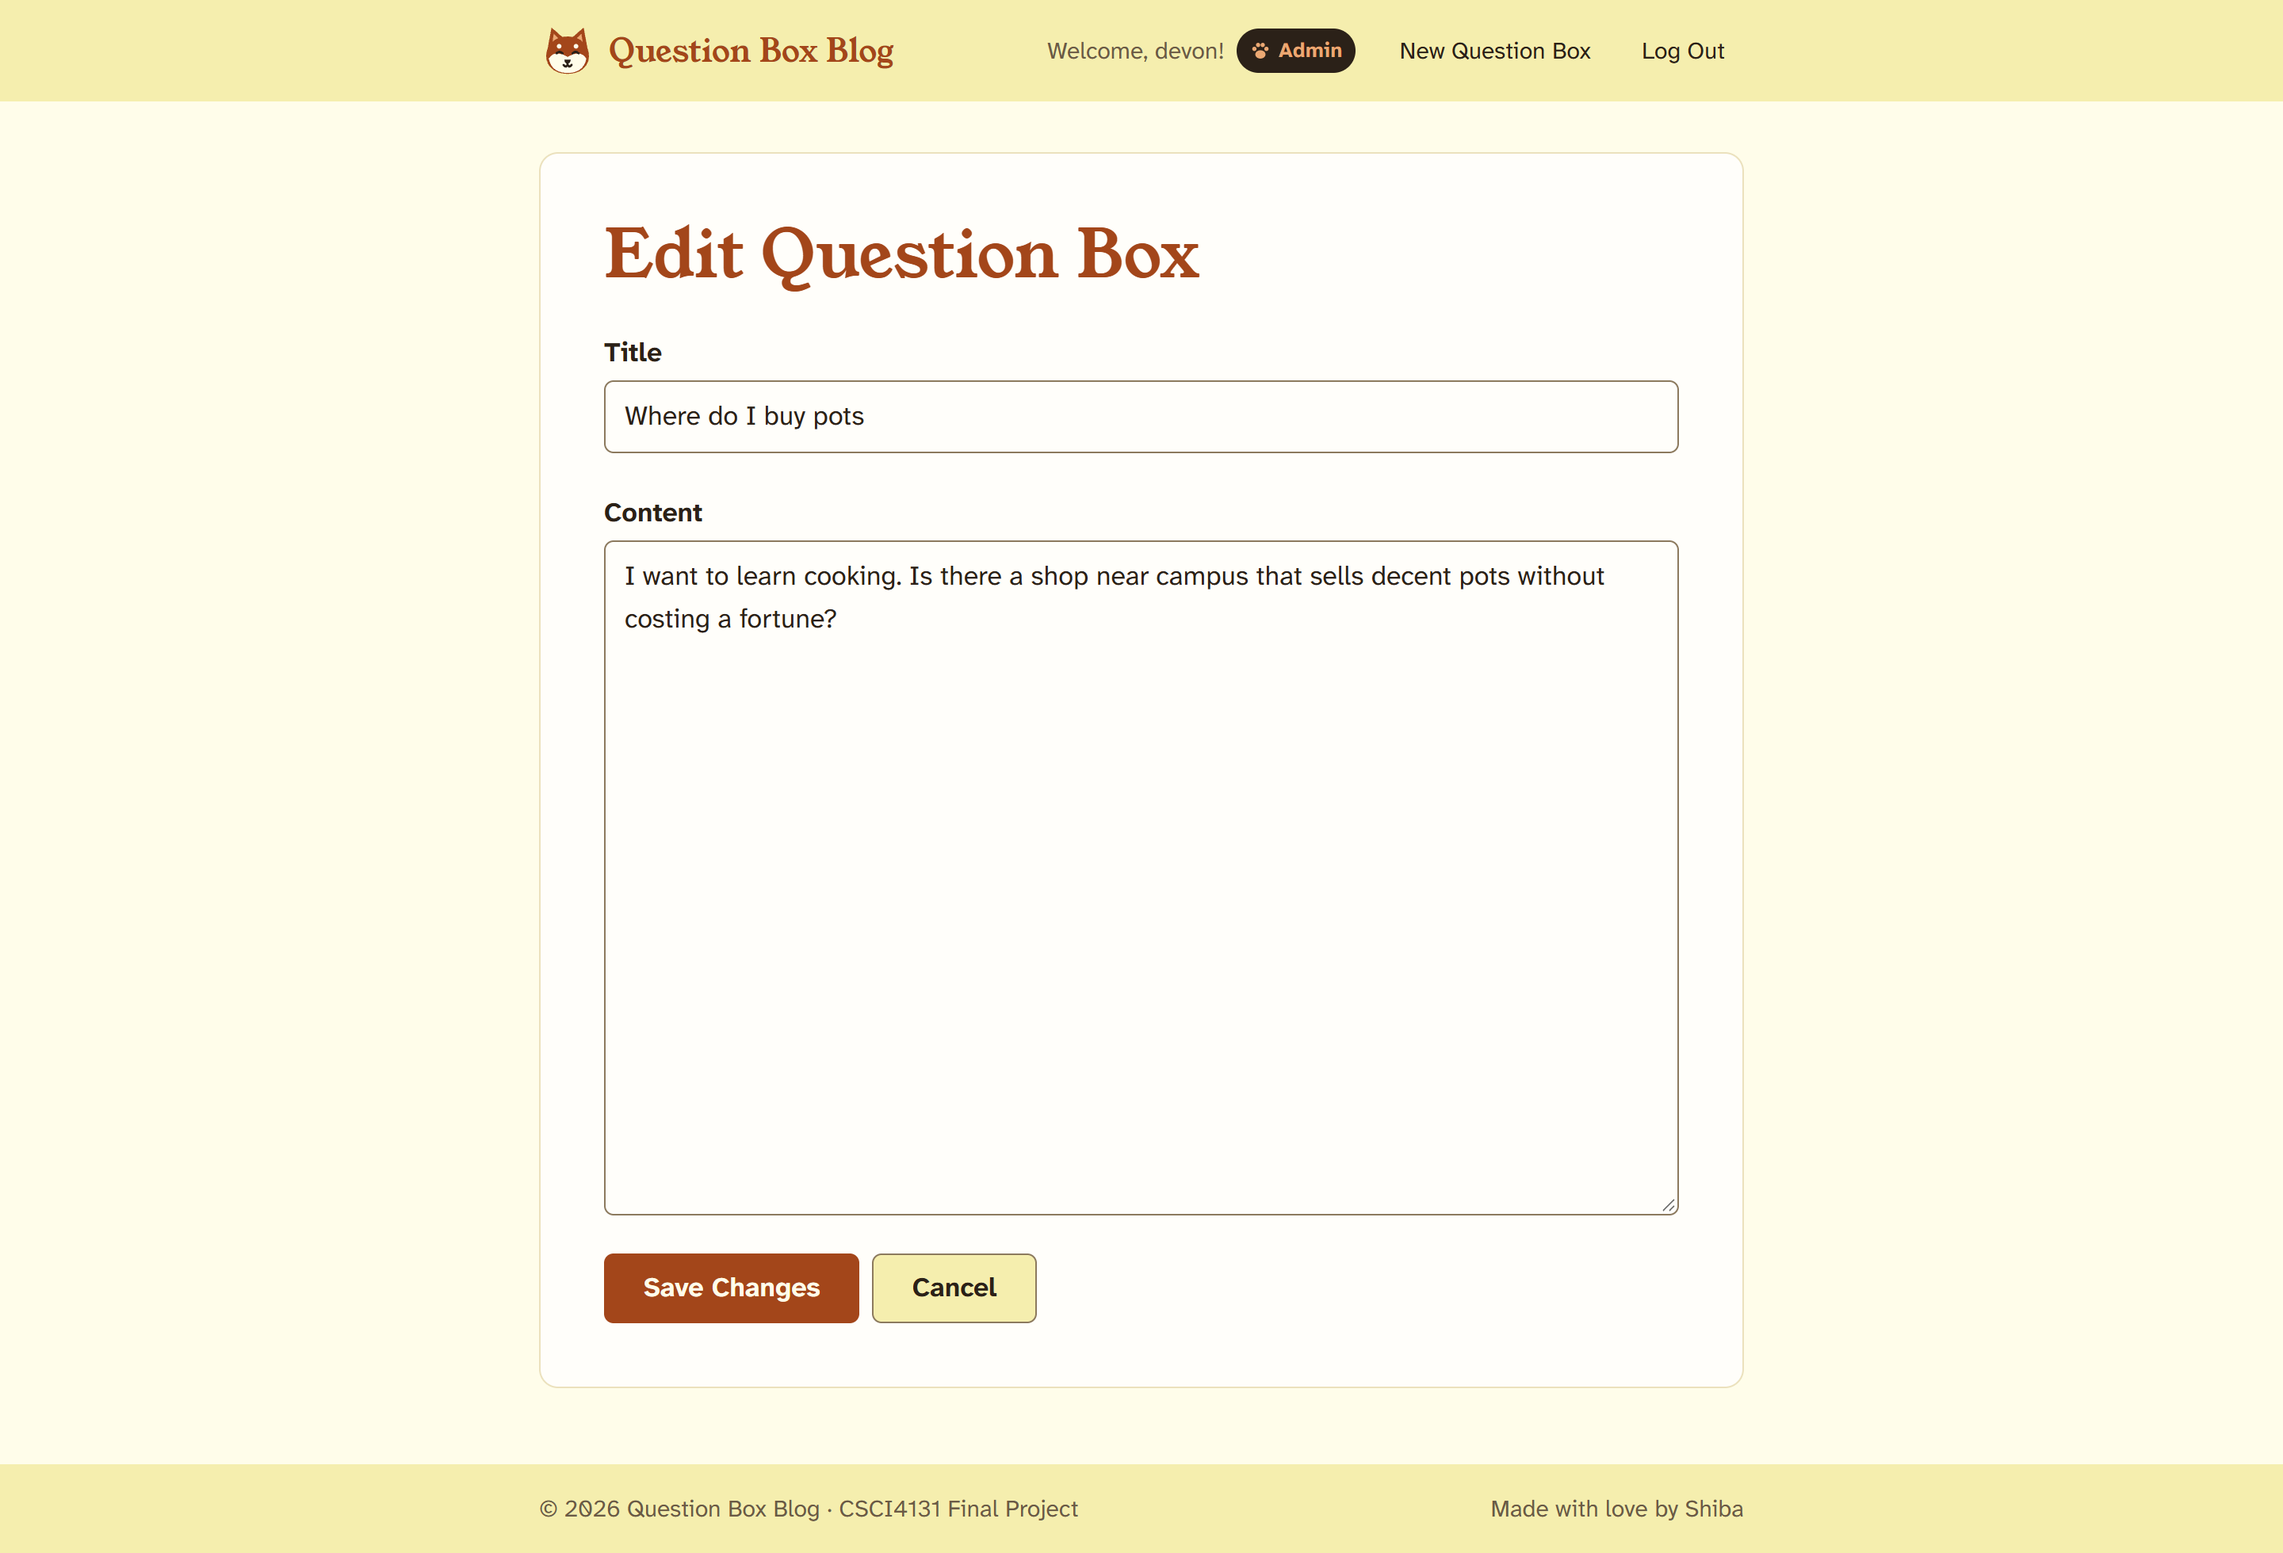
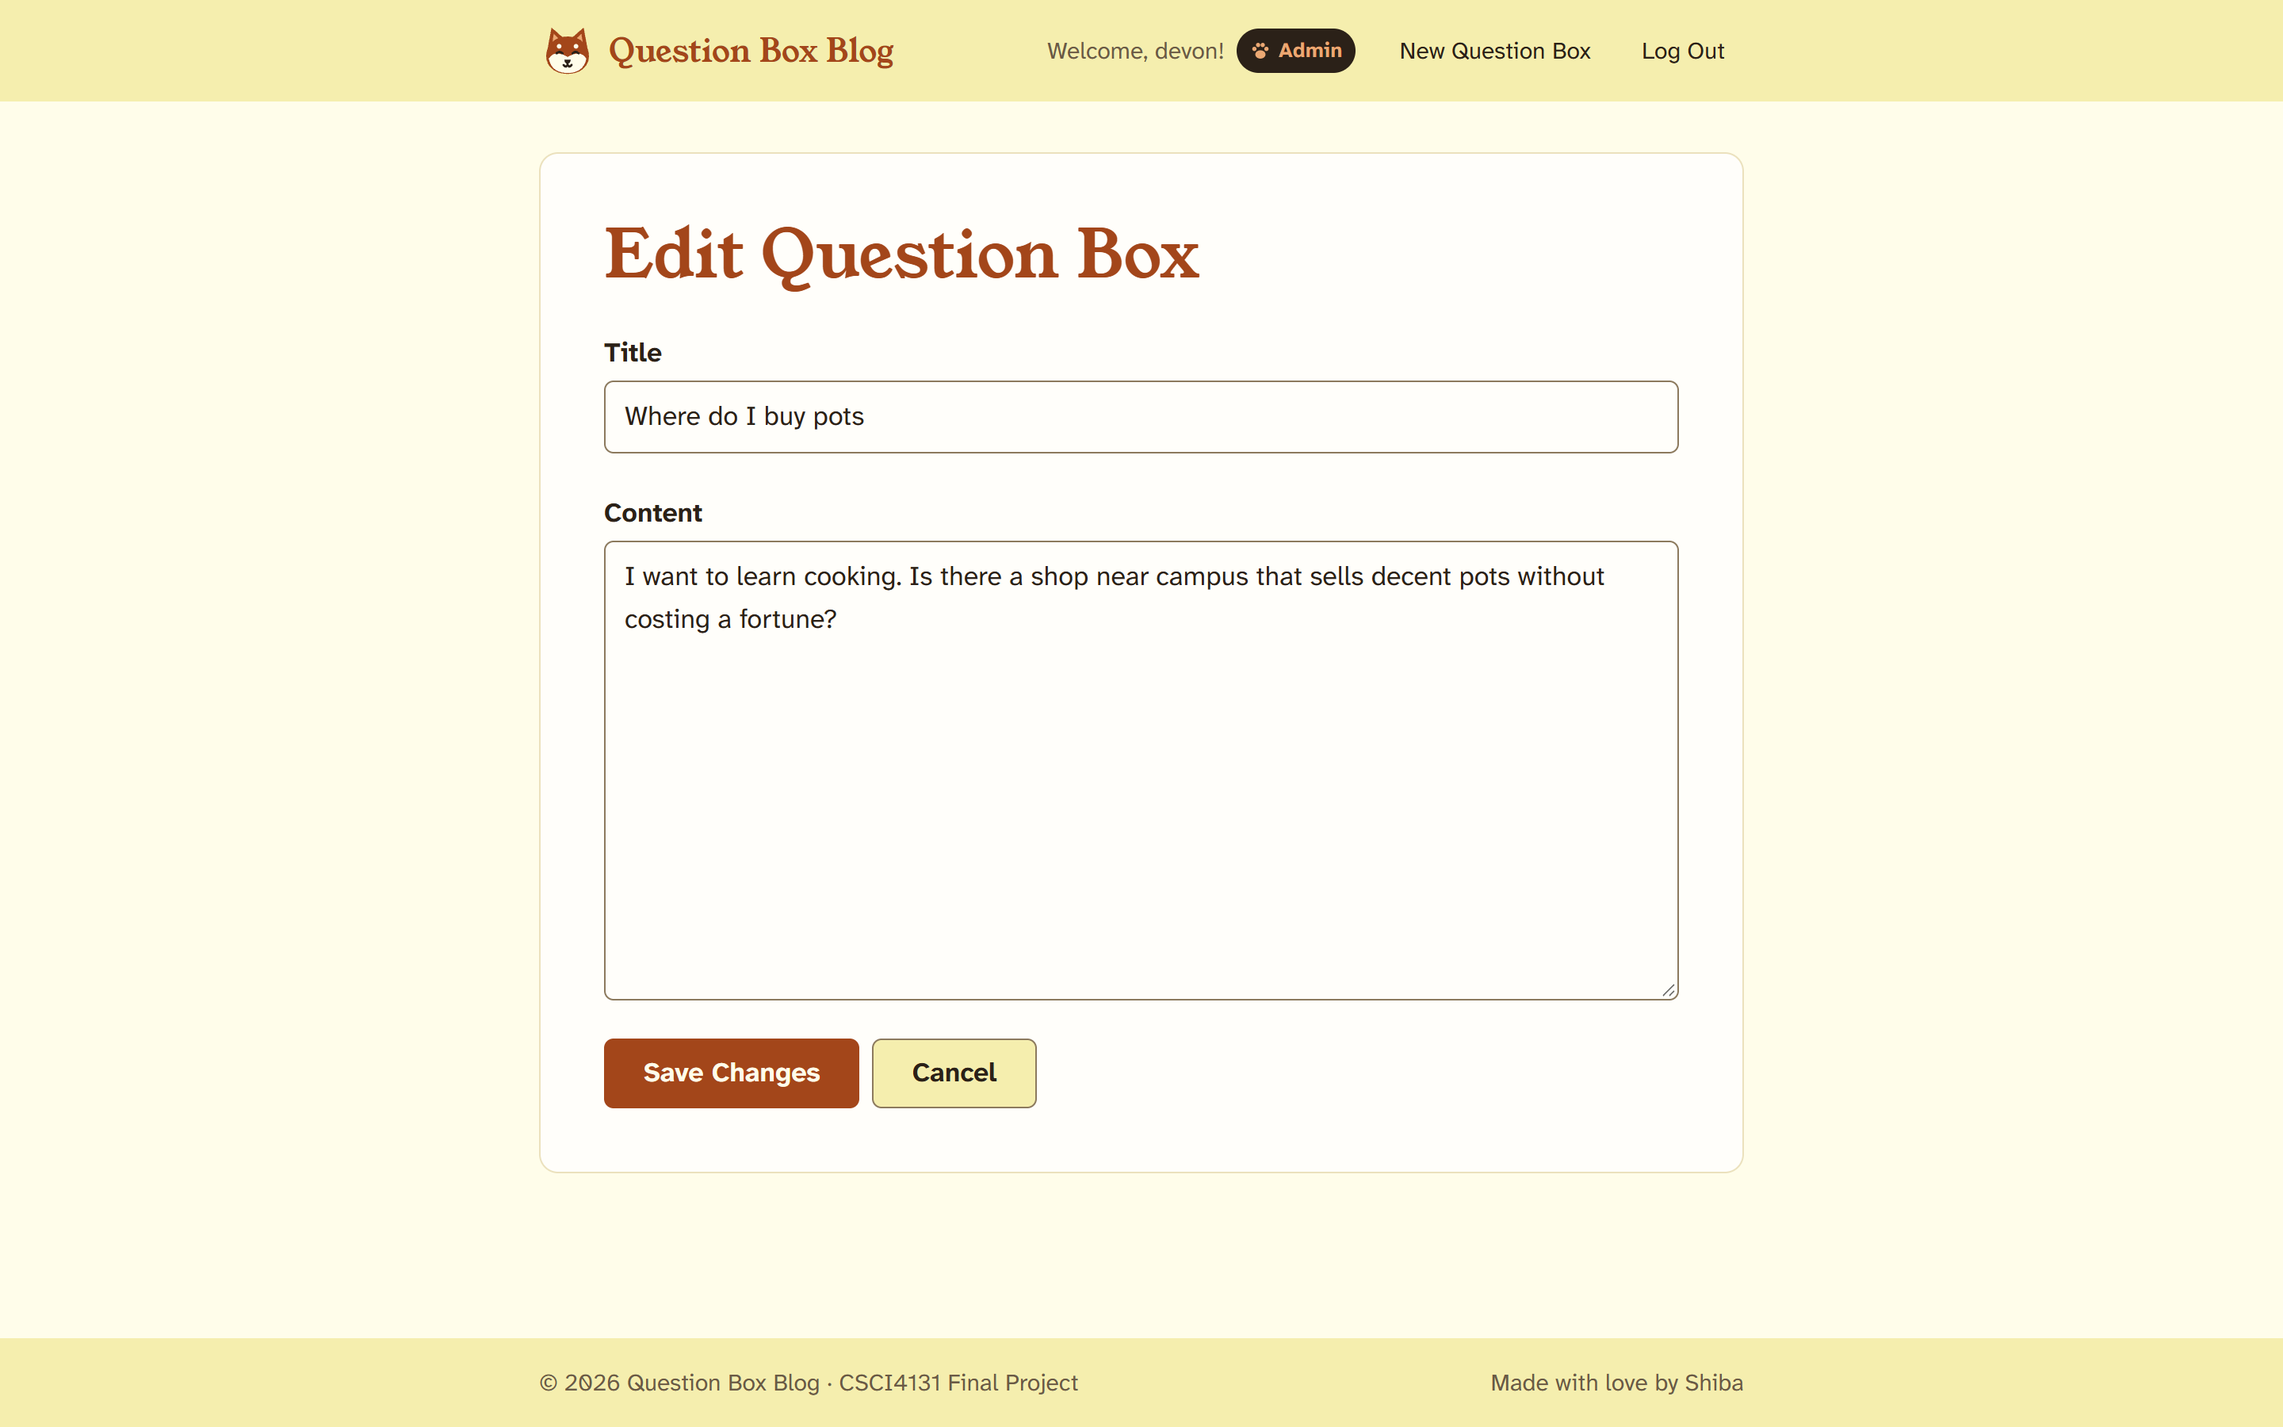
style: One action language, one composer, logout flash, skip link
The remaining items from the 27/40 critique, run in order:

- /impeccable layout: the question box's Edit/Delete are the same quiet
  text buttons as the thread and sit at the right of the meta row, off
  the reading path (the dialog keeps the outlined destructive button).
  The admin's anonymous reveal is a small dark-and-tan pill in the author
  line instead of a dashed box. The question box delete message names
  the real number of comments.
- /impeccable distill: while a reply form is open, Add Comment steps down
  to the secondary look, so Add Reply is the only filled button.
- /impeccable harden: logout regenerates the session and flashes "You're
  logged out. See you next time!" (with the paw).
- /impeccable polish: skip link to the main content; the question box
  textarea is 10 rows so Publish fits on a phone screen.
- DESIGN.md and the "after" screenshots updated.

diff --git a/resources/css/main.css b/resources/css/main.css
@@ -176,6 +176,32 @@ a:hover {
   outline-offset: 2px;
 }
 
+/* Keyboard users can jump past the header; visible only when focused. */
+.skip-link {
+  position: absolute;
+  top: var(--space-2);
+  left: var(--space-2);
+  z-index: 10;
+  padding: var(--space-2) var(--space-3);
+  border-radius: var(--radius-control);
+  background-color: var(--color-ink);
+  color: var(--color-on-accent);
+  font-weight: var(--weight-bold);
+  transform: translateY(-200%);
+}
+
+.skip-link:focus {
+  transform: none;
+}
+
+.skip-link:hover {
+  color: var(--color-on-accent);
+}
+
+main:focus {
+  outline: none;
+}
+
 .visually-hidden {
   position: absolute;
   width: 1px;
@@ -656,12 +682,22 @@ a:hover {
   font-style: italic;
 }
 
+.post-header-row {
+  display: flex;
+  flex-wrap: wrap;
+  align-items: center;
+  justify-content: space-between;
+  gap: var(--space-1) var(--space-4);
+}
+
 .post-actions {
   display: flex;
   flex-wrap: wrap;
   align-items: center;
   gap: var(--space-2);
-  margin-top: var(--space-4);
+  /* Text buttons: pull out by their padding so the words align with the
+   * column edges, whether the row sits right of the meta or wraps below. */
+  margin-inline: calc(-1 * var(--space-3));
 }
 
 .inline-form {
@@ -734,6 +770,19 @@ a:hover {
   scroll-margin-top: var(--space-6);
 }
 
+/* While a reply form is open, Add Reply is the only filled button on the
+ * page; Add Comment steps down to the secondary look until it closes. */
+.comments-section.is-replying #comment-form .btn-primary {
+  background-color: var(--color-secondary);
+  border-color: var(--color-border-strong);
+  color: var(--color-ink);
+}
+
+.comments-section.is-replying #comment-form .btn-primary:hover {
+  background-color: var(--color-secondary-hover);
+  color: var(--color-ink);
+}
+
 #leave-comment:focus {
   outline: none;
 }
@@ -782,22 +831,23 @@ a:hover {
   color: var(--color-ink-muted);
 }
 
-/* The admin's anonymous-author reveal: a deliberate tag, not stray text. */
+/* The admin's anonymous-author reveal: a small pill in the author line,
+ * in the Admin badge's dark-and-tan, so it reads as admin-only at a glance. */
 .real-user {
-  width: fit-content;
+  display: inline-flex;
+  align-items: center;
+  gap: var(--space-1);
   max-width: 100%;
-  margin-block: var(--space-1) var(--space-2);
-  padding: 2px var(--space-2);
-  border: 1px dashed var(--color-accent);
-  border-radius: var(--radius-badge);
-  background-color: var(--color-info-bg);
-  color: var(--color-accent-hover);
+  padding-inline: var(--space-2);
+  border-radius: var(--radius-pill);
+  background-color: var(--color-ink);
+  color: var(--color-accent-on-dark);
   font-size: var(--text-xs);
   overflow-wrap: anywhere;
 }
 
-.real-user-note {
-  color: var(--color-ink-muted);
+.real-user strong {
+  color: var(--color-on-accent);
 }
 
 .comment-content,
@@ -838,7 +888,8 @@ a:hover {
   min-height: 40px;
 }
 
-.btn.btn-reply {
+.btn.btn-reply,
+.post-actions .btn-edit {
   /* Ink, not red-tan: in the thread, ink means "act" and Warning Red means
    * "delete", so the two can't blur together under video compression. */
   background-color: transparent;
@@ -847,7 +898,9 @@ a:hover {
 }
 
 .btn.btn-reply:hover,
-.btn.btn-reply:focus-visible {
+.btn.btn-reply:focus-visible,
+.post-actions .btn-edit:hover,
+.post-actions .btn-edit:focus-visible {
   background-color: var(--color-secondary);
   border-color: var(--color-border-strong);
   color: var(--color-ink);
@@ -1125,7 +1178,8 @@ a:hover {
 }
 
 .btn-delete-comment,
-.btn-delete-reply {
+.btn-delete-reply,
+.post-actions .btn-delete {
   background-color: transparent;
   border-color: transparent;
   color: var(--color-destructive);
@@ -1135,7 +1189,9 @@ a:hover {
 .btn-delete-comment:hover,
 .btn-delete-reply:hover,
 .btn-delete-comment:focus-visible,
-.btn-delete-reply:focus-visible {
+.btn-delete-reply:focus-visible,
+.post-actions .btn-delete:hover,
+.post-actions .btn-delete:focus-visible {
   background-color: var(--color-surface);
   border-color: var(--color-destructive);
   color: var(--color-destructive-hover);

diff --git a/resources/js/main.js b/resources/js/main.js
@@ -294,11 +294,18 @@ document.addEventListener('DOMContentLoaded', () => {
             el('strong', 'author-name',
                item.is_anonymous ? 'Anonymous' : item.username),
             timeEl(`${kind}-date`, item));
-        if (!(item.is_anonymous && viewerIsAdmin)) return [ header ];
-        const reveal = el('p', 'real-user', 'Posted anonymously by ');
-        reveal.append(el('strong', '', item.username), ' ',
-                      el('span', 'real-user-note', '· only admins see this'));
-        return [ header, reveal ];
+        if (item.is_anonymous && viewerIsAdmin) {
+            const text = el('span', '', 'Posted anonymously by ');
+            text.append(el('strong', '', item.username),
+                        el('span', 'visually-hidden', ' (only admins see this)'));
+            const reveal = el('span', 'real-user');
+            const paw = pawIcon();
+            paw.setAttribute('width', '14');
+            paw.setAttribute('height', '14');
+            reveal.append(paw, text);
+            header.append(reveal);
+        }
+        return [ header ];
     }
 
     // Names used in accessible labels so each Reply/Delete is distinct.
@@ -388,10 +395,19 @@ document.addEventListener('DOMContentLoaded', () => {
         return commentEl;
     }
 
+    // While any reply form is open, Add Reply is the only filled button:
+    // the main comment form's button steps down to the secondary style.
+    function updateReplying() {
+        section.classList.toggle(
+            'is-replying',
+            Boolean(section.querySelector('.reply-form-container:not([hidden])')));
+    }
+
     function openReplyForm(commentEl, focus) {
         const container = commentEl.querySelector('.reply-form-container');
         const replyBtn = commentEl.querySelector('.btn-reply');
         container.hidden = false;
+        updateReplying();
         // Starting a new reply makes earlier "posted"/"deleted" lines stale.
         if (focus) clearStatuses(null);
         if (replyBtn) {
@@ -405,6 +421,7 @@ document.addEventListener('DOMContentLoaded', () => {
         const replyBtn = commentEl.querySelector('.btn-reply');
         const form = container.querySelector('.reply-form');
         container.hidden = true;
+        updateReplying();
         form.querySelector('.reply-input').value = '';
         form.querySelector('.reply-anonymous-checkbox').checked = false;
         clearStatus(form.querySelector('.form-status'));
@@ -599,6 +616,7 @@ document.addEventListener('DOMContentLoaded', () => {
             if (child !== statusEl) child.remove();
         });
         commentEl.classList.add('is-removed');
+        updateReplying();
         changeCount(-1);
         report(statusEl, 'Comment deleted.', 'success');
         if (neighbour) {

diff --git a/server.js b/server.js
@@ -240,9 +240,15 @@ app.post('/login', async (req, res) => {
     res.redirect(takeReturnTo(req));
 });
 
-app.get('/logout', (req, res) => {
-    req.session.destroy();
-    res.redirect('/');
+app.get('/logout', (req, res, next) => {
+    // A fresh, empty session carries the goodbye flash; the old one (and
+    // everything in it) is gone.
+    req.session.regenerate((err) => {
+        if (err) return next(err);
+        req.session.message = "You're logged out. See you next time!";
+        req.session.messageType = 'success';
+        res.redirect('/');
+    });
 });
 
 app.get(

diff --git a/DESIGN.md b/DESIGN.md
@@ -256,7 +256,8 @@ Three roles that are distinct in fill as well as hue, so they can't be confused 
 - **Shape:** 6px corners, a 1px border, bold label. Links and buttons share one box (`inline-flex`, explicit line height, 44px min height; 40px for `.btn-small`), so Edit and Delete line up.
 - **Primary:** a red-tan fill with cream text (5.9:1). Use one per view: Publish / Save Changes, Log In, Register, Add Comment, Add Reply, Write the First One, Go Back Home. Hover deepens to Deep Red-Tan.
 - **Secondary:** the default button. A sesame-yellow fill, Shiba Black text and a Whisker outline. Used for Edit, Cancel and pagination. Hover goes to Deep Sesame.
-- **Destructive:** on a question box, a paper fill with a Warning Red outline and text, filling solid red on hover. On comments and replies, a quiet red text button that only gains its outline on hover or focus, and it always comes after Reply.
+- **Destructive:** in the confirm dialog, a paper fill with a Warning Red outline and text, filling solid red on hover. Everywhere else (question box, comments, replies) a quiet red text button that only gains its outline on hover or focus, and it always comes after Edit or Reply.
+- **One action language:** the question box's Edit/Delete use the same quiet text buttons as the thread and sit at the right of the meta row (wrapping below it on narrow screens), off the reading path.
 - **Thread actions (Reply, comment/reply Delete):** quiet text buttons, so a comment outweighs its actions. Reply is Shiba Black ink text that takes the sesame fill on hover or focus; Delete is Warning Red text that takes its outline on hover or focus, so in the thread ink means act and red means delete. Both keep a 40px hit area. While its form is open, Reply keeps its label and shows as pressed (sesame fill and outline, `aria-expanded="true"`); its width never changes, so Delete never moves. Accessible names include the author ("Reply to comment by demo_viewer").
 - **States:** hover, `:active` (1px press), `:focus-visible` (2px Deep Red-Tan outline, offset 2px) and `:disabled` (60% opacity, not-allowed cursor). While a request runs, the button says so ("Posting…", "Deleting…").
 - **Delete dialog:** a `<dialog>` with a Young Serif heading ("Delete this comment?") and a plain message that names what goes with it, mentioning replies only when there are some. Cancel has focus; Esc cancels.
@@ -265,6 +266,7 @@ Three roles that are distinct in fill as well as hue, so they can't be confused 
 - **Content surface:** Paper, with a 1px hairline border, 10px corners and 30px padding. It is the only container.
 - **Question boxes in the list:** not cards. Each is an `article` row divided by hairlines; the title link's `::after` covers the whole row, so the row is one link target. Keyboard focus outlines the whole row. The preview is cut on a word boundary (200-character budget) and clamped to three lines.
 - **Comment count:** the thread's heading leads with the count as a red-tan Young Serif numeral at `--text-xl`, then "comment"/"comments" at `--text-lg` (`main.js` keeps both in sync).
+- **One composer at a time:** while any reply form is open, Add Comment steps down to the secondary look, so Add Reply is the only filled button.
 - **Comment thread order:** the count heading (with a "Write a comment" jump link when there are comments), then the comments, then the "Leave a Comment" form, or the guest's log-in prompt, closing the thread after a hairline and `--space-6`. Reading comes before writing; a new comment lands just above the form.
 - **Comments and replies:** rows divided by hairlines. Replies are indented 24px under their comment with dashed dividers. A just-posted comment or reply gets a short Sun Wash tint.
 
@@ -278,10 +280,10 @@ Three roles that are distinct in fill as well as hue, so they can't be confused 
 - **Admin badge:** a Shiba Black pill with a Tan on Black paw and the label "Admin". It is the one dark element on the page, so admin mode is unmistakable.
 
 ### Admin reveal
-On an anonymous comment or reply, admins see a tag under the author line: "Posted anonymously by **name** · only admins see this". It is a dashed red-tan outline on Sun Wash with Deep Red-Tan text (about 7:1), never stray text in the header row.
+On an anonymous comment or reply, admins see a small pill in the author line: a paw and "Posted anonymously by **name**", in the Admin badge's Shiba Black and Tan on Black, so it reads as admin-only at a glance ("only admins see this" is in the accessible name).
 
 ### Flash messages
-Below the header, inside the page column, above the content surface. On narrow pages (login, register, 404) it narrows to the 440px card under it. Success flashes start with the paw, the same acknowledgement as a posted comment. A 1px border in the status color over its wash, bold text, and a dismiss (×) button; dismissing moves focus to the page heading. Errors use `role="alert"`, everything else `role="status"`. Success uses Leaf Green on Leaf Wash, error uses Deep Warning Red on Warn Wash with a Warning Red border, and info uses Shiba Black on Sun Wash.
+Below the header, inside the page column, above the content surface. On narrow pages (login, register, 404) it narrows to the 440px card under it. Success flashes start with the paw, the same acknowledgement as a posted comment. Logging in, publishing and logging out ("You're logged out. See you next time!") all get one. A 1px border in the status color over its wash, bold text, and a dismiss (×) button; dismissing moves focus to the page heading. Errors use `role="alert"`, everything else `role="status"`. Success uses Leaf Green on Leaf Wash, error uses Deep Warning Red on Warn Wash with a Warning Red border, and info uses Shiba Black on Sun Wash.
 
 ## Shiba Motif
 
